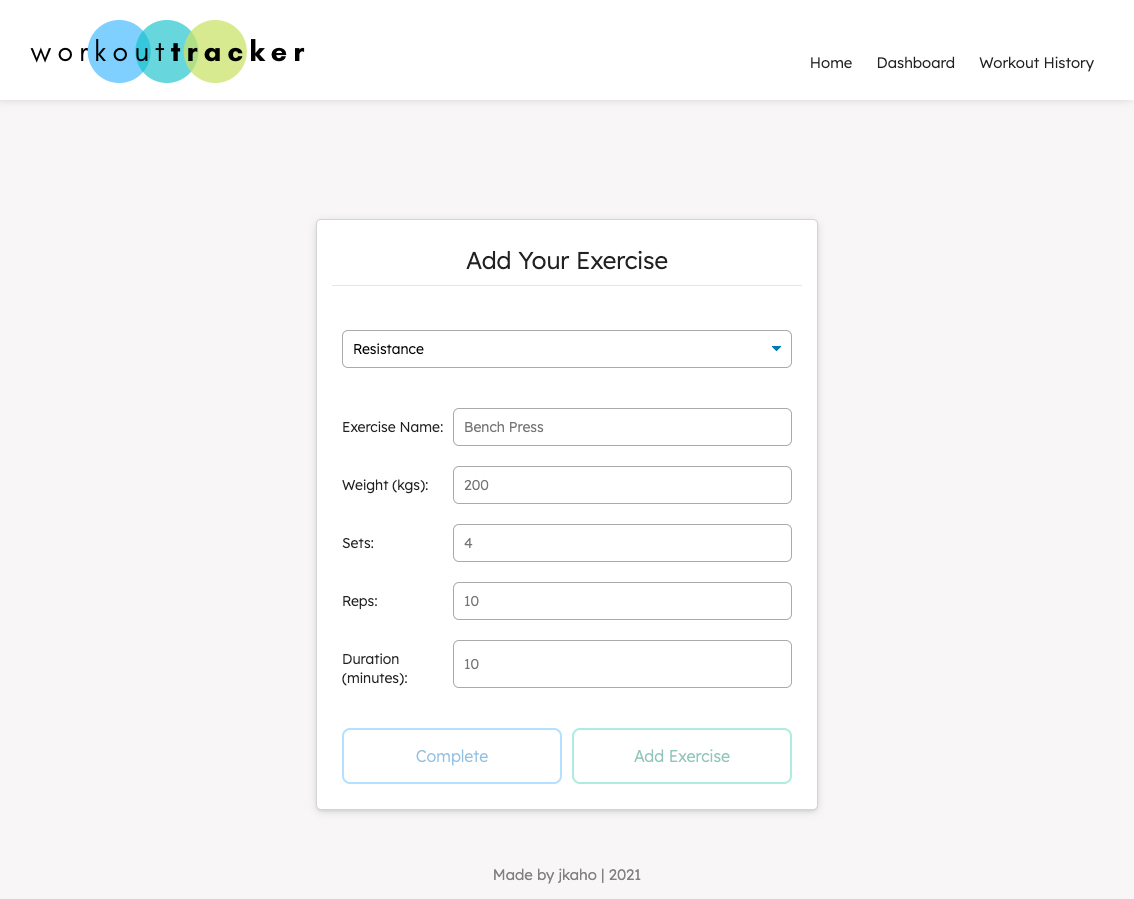
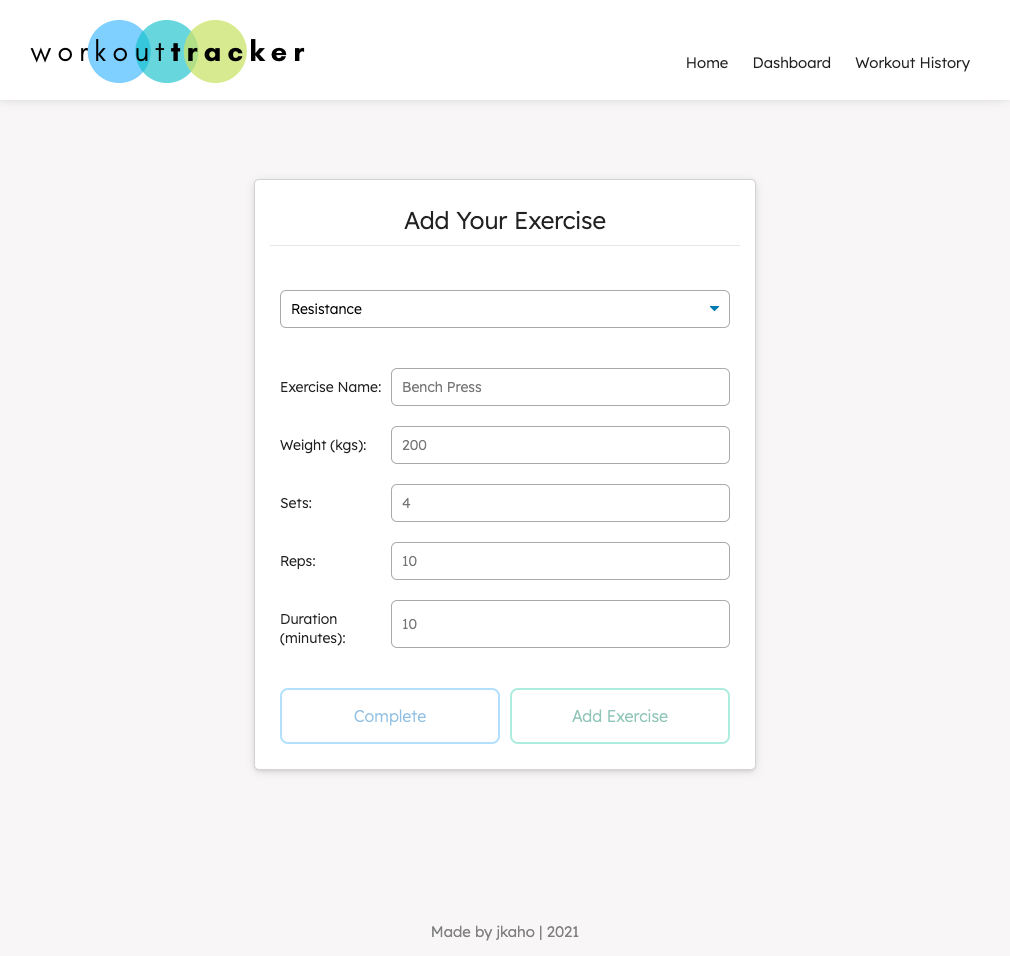
Open footer link in new tab, minor style change, image replacement

diff --git a/public/history.html b/public/history.html
@@ -35,7 +35,7 @@
             <form>
                 <!-- <label for="history-search-select">Workout date: </label> -->
                 <select id="history-search-select">
-                    <option disabled value="default-option" selected>Search for a workout</option>
+                    <option disabled value="default-option" selected>Select a workout</option>
                 </select>
                 <button id="history-search-btn">View all</button>
             </form>
@@ -75,7 +75,7 @@
 
     <footer>
         <div id="footer-link">
-            <a href="https://github.com/jkaho/workout-tracker">Made by jkaho | 2021</a>
+            <a href="https://github.com/jkaho/workout-tracker" target="_blank">Made by jkaho | 2021</a>
         </div>
     </footer>
 

diff --git a/public/exercise.html b/public/exercise.html
@@ -89,7 +89,7 @@
     </div>
     <footer>
         <div id="footer-link">
-            <a href="https://github.com/jkaho/workout-tracker">Made by jkaho | 2021</a>
+            <a href="https://github.com/jkaho/workout-tracker" target="_blank">Made by jkaho | 2021</a>
         </div>
     </footer>
     

diff --git a/public/index.html b/public/index.html
@@ -47,7 +47,7 @@
     </div>
     <footer>
         <div id="footer-link">
-            <a href="https://github.com/jkaho/workout-tracker">Made by jkaho | 2021</a>
+            <a href="https://github.com/jkaho/workout-tracker" target="_blank">Made by jkaho | 2021</a>
         </div>
     </footer>
     

diff --git a/public/stats.html b/public/stats.html
@@ -78,7 +78,7 @@
     </div>
     <footer>
         <div id="footer-link">
-            <a href="https://github.com/jkaho/workout-tracker">Made by jkaho | 2021</a>
+            <a href="https://github.com/jkaho/workout-tracker" target="_blank">Made by jkaho | 2021</a>
         </div>
     </footer>
 

diff --git a/public/css/exercise.css b/public/css/exercise.css
@@ -23,6 +23,10 @@ form .resistance-form div {
     border-bottom: solid 1px rgb(231, 231, 231);
 }
 
+.exercise-wrapper header {
+    height: 80px;
+}
+
 /* SELECT */
 select {
     font-family: 'Lexend', sans-serif;
